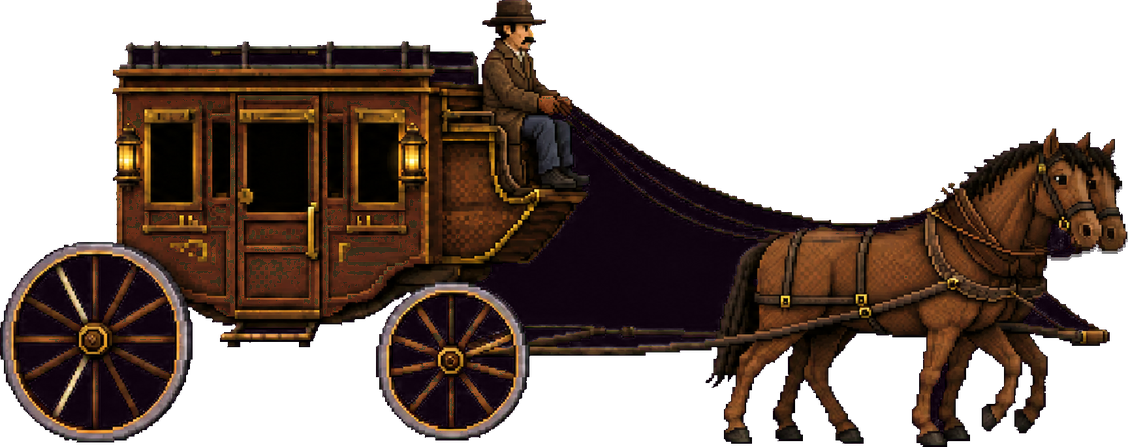
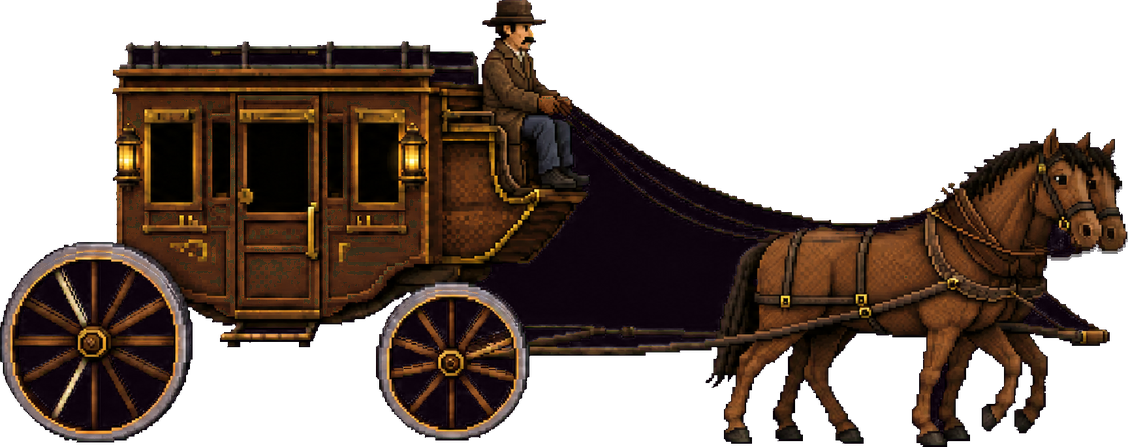
The wheels turn again, the road says where it goes, and the lamp clears
THE EXIT WAS NEVER NAMED, AND THE RULE THAT HID IT WAS RIGHT ABOUT THE MUD.
sentenceText returns the bare verb for anything resolved with WALK TO --
"Walk to" and nothing after it -- so that hovering the road does not read
"Walk to THE MUD". Doc 06's walk template. It was written about ground and
quietly covered CONSOLATION too, so the click that leaves the room looked
exactly like a click on mud. A departure is a place and the ground is not. An
Exit is the Interactable that names a destination, which is the discriminator
and needs no new field.

THE WHEELS WERE FROZEN TWICE AND BOTH TIMES BY ACCIDENT. 2ab0616 built eight
frames, each wheel rotated by the fraction of a revolution its own radius
makes over the same ground -- rear r144 against front r114, and that
difference is what reads as rolling. 1bf5d41 painted the case off the
closed-door rack, rebuilt both closed clips from the corrected source, and
says so in its own message: "walk is the same frame". Eight collapsed to one.

Rebuilt from what SHIPS -- the full-res 447 body 4f9bcf6 installed, which
already has the case off the rack -- rather than from the source that predates
both fixes. Wheel data is authored against a 1728x703 body and scaled in.
Eight distinct frames. Despilled: the wheel sprites carry magenta in their
soft edges, which is the same thing 1bf5d41's message warned about.

THE HORSES' LEGS STILL DO NOT MOVE and this does not change that. They are
[…]

Changed region(s): [[0.0, 0.5526, 0.1862, 0.9888], [0.3413, 0.6398, 0.4654, 0.9888]]

diff --git a/engine/render/Renderer.ts b/engine/render/Renderer.ts
@@ -1335,8 +1335,17 @@ export class Renderer {
     const verbLabel = this.state.verbs.labelFor(verb);
     // Walking is not a sentence about a thing. Doc 06's walk template is just
     // the verb, so the road does not read "Walk to THE MUD".
+    //
+    // A DEPARTURE IS THE EXCEPTION, AND IT IS THE ONE CASE THAT NEEDS THE
+    // NAME. Hovering the gap in the fence read "Walk to" with nothing after
+    // it, so the click that leaves the room looked exactly like a click on
+    // mud. An exit is a place; the ground is not. The rule was written about
+    // THE MUD and quietly covered CONSOLATION too.
     if (verb === this.state.verbs.walkVerbId) {
-      return format(ui.sentence.walkTemplate, { verb: verbLabel });
+      // An Exit is an Interactable that names a destination. Nothing else does.
+      const departure = targetName && target && 'to' in target;
+      if (!departure) return format(ui.sentence.walkTemplate, { verb: verbLabel });
+      return format(ui.sentence.template, { verb: verbLabel, target: targetName });
     }
     const held = this.state.heldItem;
     // With an item picked up the sentence gains a middle: the verb applies

diff --git a/tests/interface.test.ts b/tests/interface.test.ts
@@ -447,8 +447,16 @@ test('a hotspot whose state gate fails is not there at all', async () => {
   // Both halves of a state change share a rect, so only one may ever answer.
   const crossing = state.targetAt(...centre);
   assert.equal(crossing?.id, 'lamp');
+  // AND WHEN HE HAS GONE THERE IS NOTHING THERE AT ALL. lamp_gone used to
+  // answer here -- a designed paired state with authored lines about watching
+  // the lantern recede -- but it sat on the LAMP'S OWN RECT, where Hob stood,
+  // not up the street where its lines look. So the empty fence went on saying
+  // THE WATCHMAN'S LAMP after he left, and a gate that was working perfectly
+  // read as one that had failed. Deleted by Tyler's ruling; the lines are in
+  // the history and in doc 36's table if the beat is ever wanted back.
   state.flags.set('T_HOB_GONE', true);
-  assert.equal(state.targetAt(...centre)?.id, 'lamp_gone');
+  assert.equal(state.targetAt(...centre), undefined);
+  assert.equal(state.findTarget('lamp_gone'), undefined);
 });
 
 test("the mud's first LISTEN stands alone, and the last one repeats forever", async () => {
